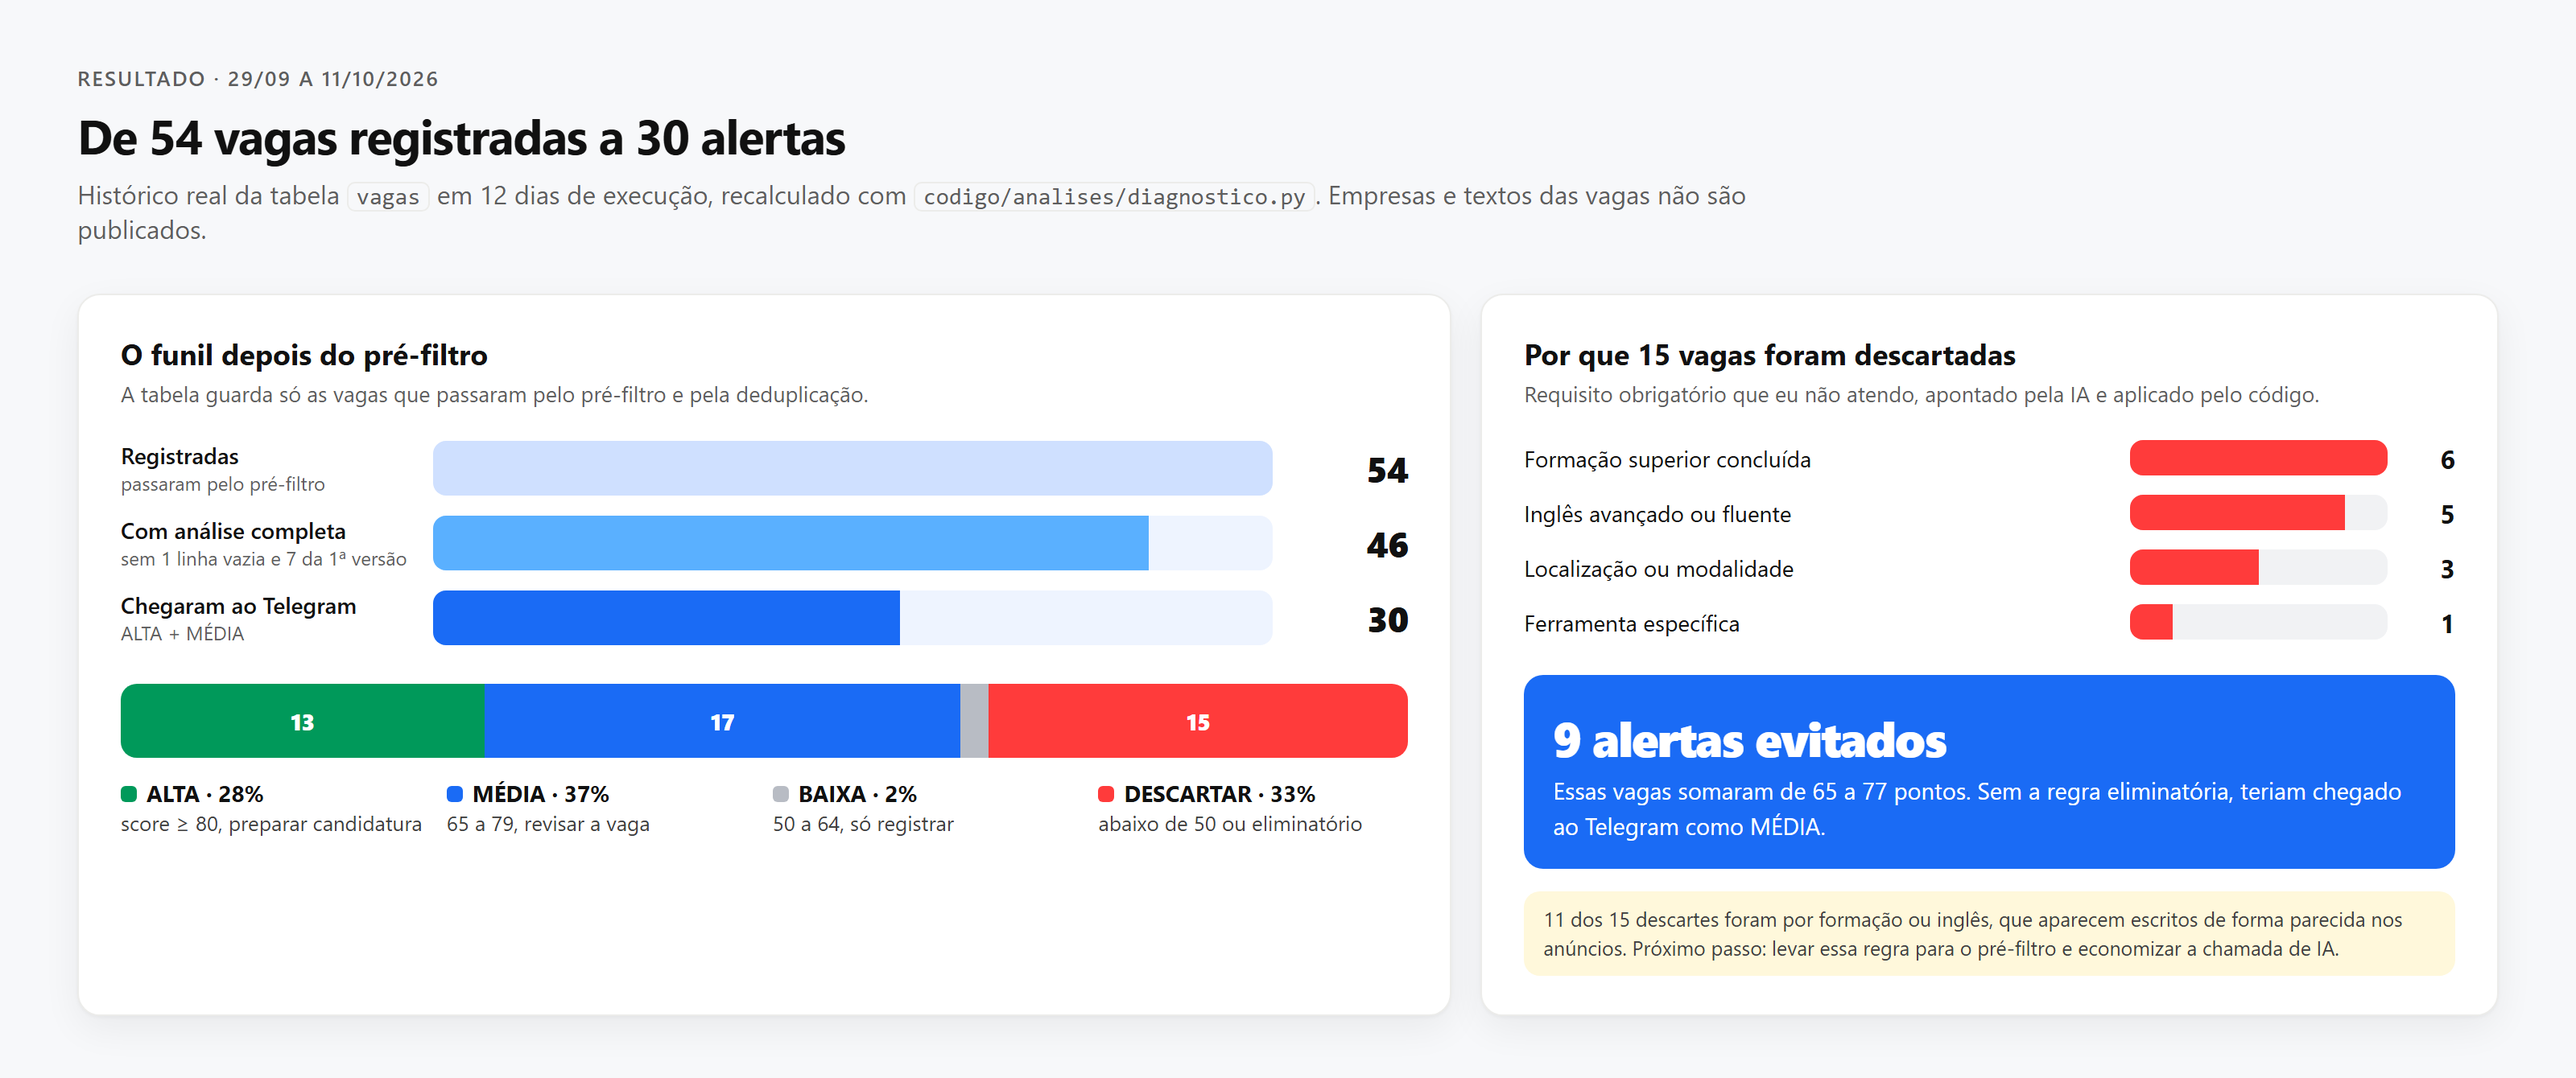
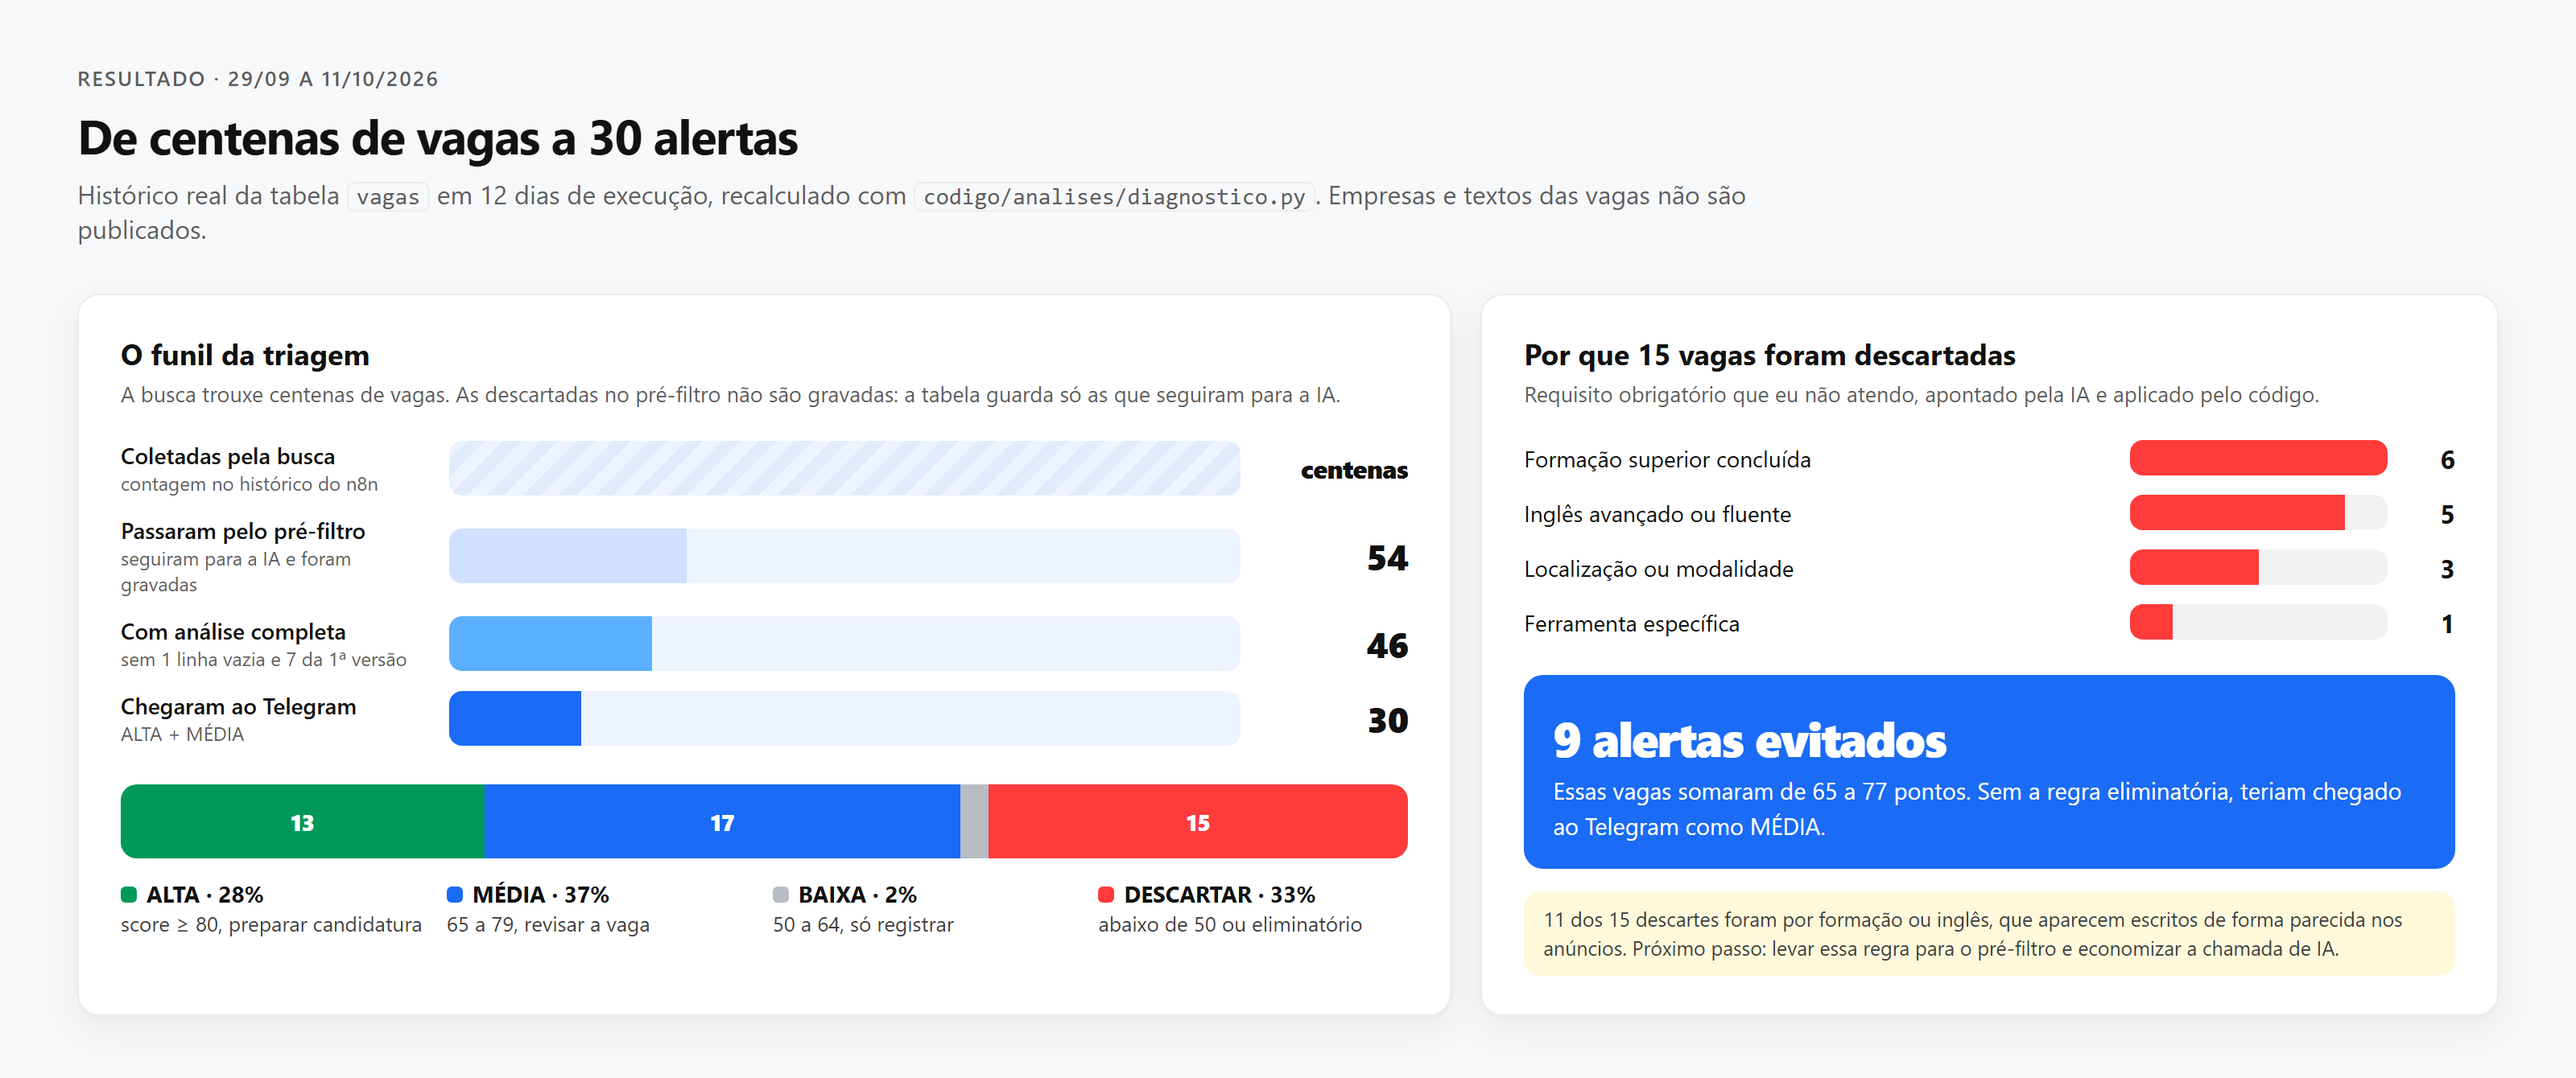
Deixa claro que a busca trouxe centenas de vagas
As 46 com análise completa são só as que passaram pelo pré-filtro; as
descartadas antes da IA não são gravadas. Banner, triagem, score, README
e doc 05 ajustados.

diff --git a/assets/fontes/triagem.html b/assets/fontes/triagem.html
@@ -10,12 +10,12 @@
   .bloco{padding:24px 26px}
   .bloco h3{font-size:18px;font-weight:700;margin-bottom:4px}
   .bloco .desc{font-size:13.5px;color:var(--grafite-2);margin-bottom:20px}
-  .degrau{display:grid;grid-template-columns:180px 1fr 70px;align-items:center;gap:14px;margin-top:12px}
+  .degrau{display:grid;grid-template-columns:190px 1fr 90px;align-items:center;gap:14px;margin-top:12px}
   .degrau .r{font-size:14px;font-weight:600}
   .degrau .r small{display:block;font-size:12px;font-weight:400;color:var(--grafite-2)}
   .barra{height:34px;border-radius:8px;background:var(--azul-fundo);overflow:hidden;display:flex}
   .barra i{display:block;height:100%}
-  .degrau .v{font-size:22px;font-weight:800;text-align:right;letter-spacing:-.02em}
+  .degrau .v{font-size:22px;white-space:nowrap;font-weight:800;text-align:right;letter-spacing:-.02em}
   .pilha{display:flex;height:46px;border-radius:10px;overflow:hidden;margin-top:24px}
   .pilha div{display:flex;align-items:center;justify-content:center;font-size:14px;font-weight:800;color:#fff}
   .chaves{display:grid;grid-template-columns:repeat(4,1fr);gap:10px;margin-top:12px}
@@ -33,16 +33,17 @@
 <body>
 <div class="topo">
   <span class="lbl">Resultado · 29/09 a 11/10/2026</span>
-  <h1>De 54 vagas registradas a 30 alertas</h1>
+  <h1>De centenas de vagas a 30 alertas</h1>
   <p>Histórico real da tabela <code>vagas</code> em 12 dias de execução, recalculado com <code>codigo/analises/diagnostico.py</code>. Empresas e textos das vagas não são publicados.</p>
 </div>
 <div class="grade">
   <div class="card bloco">
-    <h3>O funil depois do pré-filtro</h3>
-    <p class="desc">A tabela guarda só as vagas que passaram pelo pré-filtro e pela deduplicação.</p>
-    <div class="degrau"><span class="r">Registradas<small>passaram pelo pré-filtro</small></span><div class="barra"><i style="width:100%;background:var(--azul-selecao)"></i></div><span class="v">54</span></div>
-    <div class="degrau"><span class="r">Com análise completa<small>sem 1 linha vazia e 7 da 1ª versão</small></span><div class="barra"><i style="width:85.2%;background:var(--azul-pasta)"></i></div><span class="v">46</span></div>
-    <div class="degrau"><span class="r">Chegaram ao Telegram<small>ALTA + MÉDIA</small></span><div class="barra"><i style="width:55.6%;background:var(--azul)"></i></div><span class="v">30</span></div>
+    <h3>O funil da triagem</h3>
+    <p class="desc">A busca trouxe centenas de vagas. As descartadas no pré-filtro não são gravadas: a tabela guarda só as que seguiram para a IA.</p>
+    <div class="degrau"><span class="r">Coletadas pela busca<small>contagem no histórico do n8n</small></span><div class="barra" style="background:repeating-linear-gradient(135deg,#EEF4FF 0 8px,#E2EBFB 8px 16px)"></div><span class="v" style="font-size:16px">centenas</span></div>
+    <div class="degrau"><span class="r">Passaram pelo pré-filtro<small>seguiram para a IA e foram gravadas</small></span><div class="barra"><i style="width:30%;background:var(--azul-selecao)"></i></div><span class="v">54</span></div>
+    <div class="degrau"><span class="r">Com análise completa<small>sem 1 linha vazia e 7 da 1ª versão</small></span><div class="barra"><i style="width:25.6%;background:var(--azul-pasta)"></i></div><span class="v">46</span></div>
+    <div class="degrau"><span class="r">Chegaram ao Telegram<small>ALTA + MÉDIA</small></span><div class="barra"><i style="width:16.7%;background:var(--azul)"></i></div><span class="v">30</span></div>
 
     <div class="pilha">
       <div style="width:28.3%;background:#00995A">13</div>

diff --git a/assets/fontes/score.html b/assets/fontes/score.html
@@ -33,10 +33,10 @@
 <div class="topo">
   <span class="lbl">Regra de pontuação · 0 a 100</span>
   <h1>A IA dá as notas, o código decide</h1>
-  <p>Cada critério tem um peso fixo. A IA preenche as 6 notas num formato fixo; o código limita cada nota ao máximo, soma, aplica o teto do eliminatório e define faixa e ação. Nas 46 vagas analisadas, todas as regras foram cumpridas.</p>
+  <p>Cada critério tem um peso fixo. A IA preenche as 6 notas num formato fixo; o código limita cada nota ao máximo, soma, aplica o teto do eliminatório e define faixa e ação. Nas 46 vagas que passaram pela IA, todas as regras foram cumpridas.</p>
   <div class="legenda">
     <span><i class="leg-cor" style="background:var(--azul-fundo);border-style:dashed"></i>peso máximo do critério</span>
-    <span><i class="leg-cor" style="background:var(--azul);border-color:var(--azul)"></i>nota média das 46 vagas</span>
+    <span><i class="leg-cor" style="background:var(--azul);border-color:var(--azul)"></i>nota média das 46 vagas avaliadas pela IA</span>
   </div>
 </div>
 <div class="grade">

diff --git a/assets/fontes/banner.html b/assets/fontes/banner.html
@@ -38,7 +38,7 @@
     </div>
   </div>
   <div class="numeros">
-    <div class="n dest"><b>30 de 46</b><span>vagas analisadas chegaram ao Telegram com material pronto</span></div>
+    <div class="n dest"><b>30 alertas</b><span>de centenas de vagas coletadas em 12 dias, já com material pronto</span></div>
     <div class="n"><b>29</b><span>nós no workflow, rodando todos os dias</span></div>
     <div class="n"><b>6 critérios</b><span>com pesos fixos somando 100 pontos</span></div>
     <div class="n"><b>100%</b><span>dos scores conferidos batem com as regras do código</span></div>

diff --git a/README.md b/README.md
@@ -34,7 +34,7 @@ Na minha busca por uma vaga em dados, a maior parte do tempo não ia para as can
 Construí um workflow no **n8n** que faz essa triagem todo dia: busca vagas, descarta por regra o que não combina, usa IA para comparar cada vaga com o meu perfil, calcula um **score de 0 a 100 em código**, guarda o histórico no **PostgreSQL** e me avisa no **Telegram** só das vagas de alta e média aderência, já com o material para me candidatar.
 
 > **Pergunta:** como reduzir a busca só às vagas que merecem atenção, sem inflar a minha aderência e sem perder as que combinam comigo?
-> **Resultado em 12 dias de uso real:** 46 vagas analisadas, **30 chegaram ao Telegram** (13 de alta e 17 de média aderência) e a regra de requisito eliminatório evitou 9 alertas inúteis. Todos os scores conferidos batem com as regras do código. [Análise completa](docs/05_analise_e_recomendacoes.md)
+> **Resultado em 12 dias de uso real:** centenas de vagas coletadas, a maioria descartada por regra antes da IA; 46 passaram pela análise completa e **30 chegaram ao Telegram** (13 de alta e 17 de média aderência) e a regra de requisito eliminatório evitou 9 alertas inúteis. Todos os scores conferidos batem com as regras do código. [Análise completa](docs/05_analise_e_recomendacoes.md)
 
 O foco deste README é **como foi feito**: as ferramentas, por que cada uma e as decisões técnicas no caminho. A história contada visualmente está na [**apresentação no meu portfólio**](https://matheusmendes.site/projetos/automacao-vagas).
 
@@ -149,7 +149,7 @@ A segunda chamada de IA ([análise detalhada](workflow/prompts/02_analisar_vaga_
 
 **Por que Python:** uma automação também precisa ser avaliada. Exportei a tabela `vagas` e escrevi um diagnóstico que mede o resultado e confere se o score gravado respeita as regras do código.
 
-![De 54 vagas registradas a 30 alertas](assets/triagem.png)
+![De centenas de vagas a 30 alertas](assets/triagem.png)
 
 | O que [`diagnostico.py`](codigo/analises/diagnostico.py) mede | Resultado |
 |---|---|

diff --git a/docs/05_analise_e_recomendacoes.md b/docs/05_analise_e_recomendacoes.md
@@ -1,6 +1,6 @@
 # Análise e Recomendações · Automação de vagas
 
-**Período:** 29/09 a 11/10/2026 (12 dias com execução) · **Universo:** 54 vagas registradas, 46 com análise completa
+**Período:** 29/09 a 11/10/2026 (12 dias com execução) · **Universo:** centenas de vagas coletadas; 54 passaram pelo pré-filtro e foram registradas, 46 com análise completa
 **Autor:** Matheus Mendes
 
 Todos os números podem ser recalculados com `python codigo/analises/diagnostico.py`.
@@ -25,7 +25,8 @@ Todos os números podem ser recalculados com `python codigo/analises/diagnostico
 
 | Indicador | Valor |
 |---|---:|
-| Vagas registradas · com análise completa | 54 · 46 |
+| Vagas coletadas pela busca | centenas (as descartadas no pré-filtro não são gravadas) |
+| Passaram pelo pré-filtro e foram registradas · com análise completa | 54 · 46 |
 | ALTA (preparar candidatura) | 13 (28%) |
 | MÉDIA (revisar) | 17 (37%) |
 | BAIXA (só registrar) | 1 (2%) |
@@ -111,7 +112,7 @@ foi considerado obrigatório, na outra não.
 ---
 
 ## Premissas e limitações
-- 46 vagas em 12 dias é uma amostra pequena e concentrada em uma busca (ver Cartão 1).
+- As 46 vagas com análise completa são as que passaram pelo pré-filtro, não tudo o que a busca trouxe; ainda assim é uma amostra pequena e concentrada em uma busca (ver Cartão 1).
 - As lacunas foram contadas por termos nos resumos escritos pela IA: indicam tendência, não uma medida exata.
 - A tabela não guarda as vagas descartadas no pré-filtro, então o funil completo (busca → pré-filtro → IA) depende do histórico do n8n.
 - O tempo economizado não foi medido.
